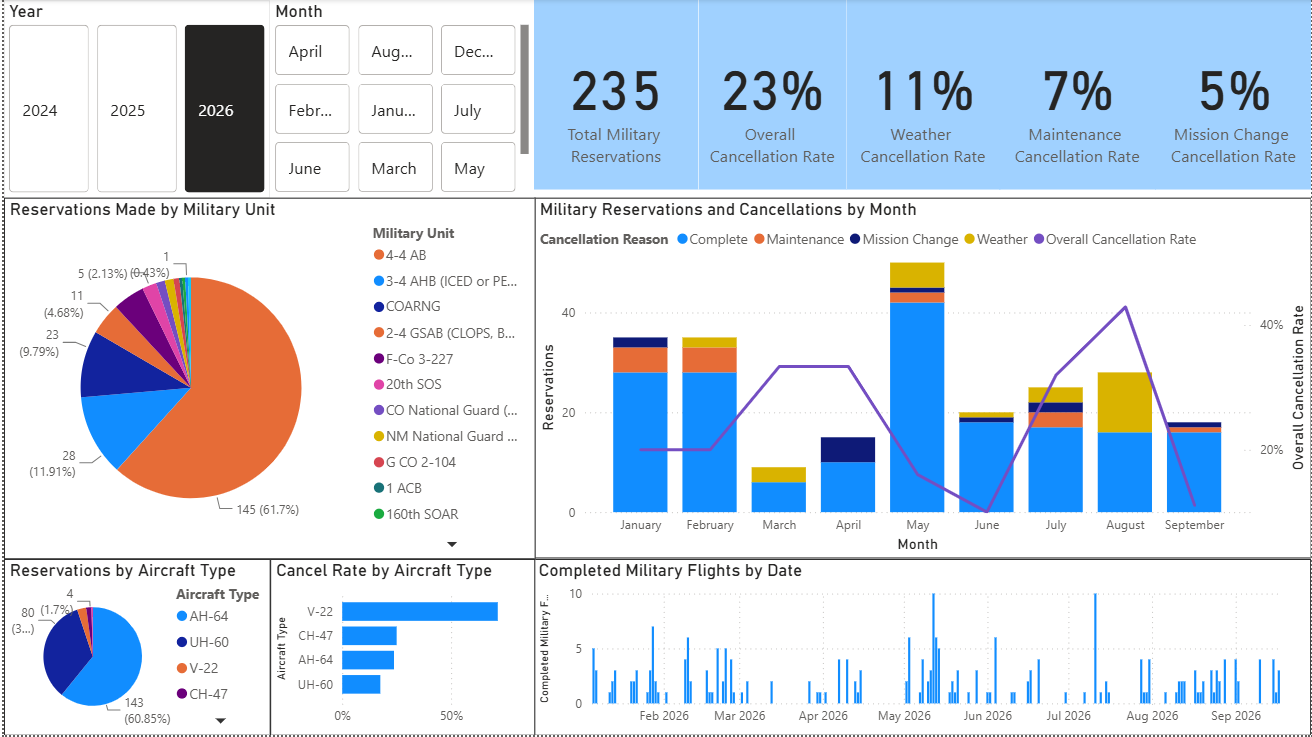
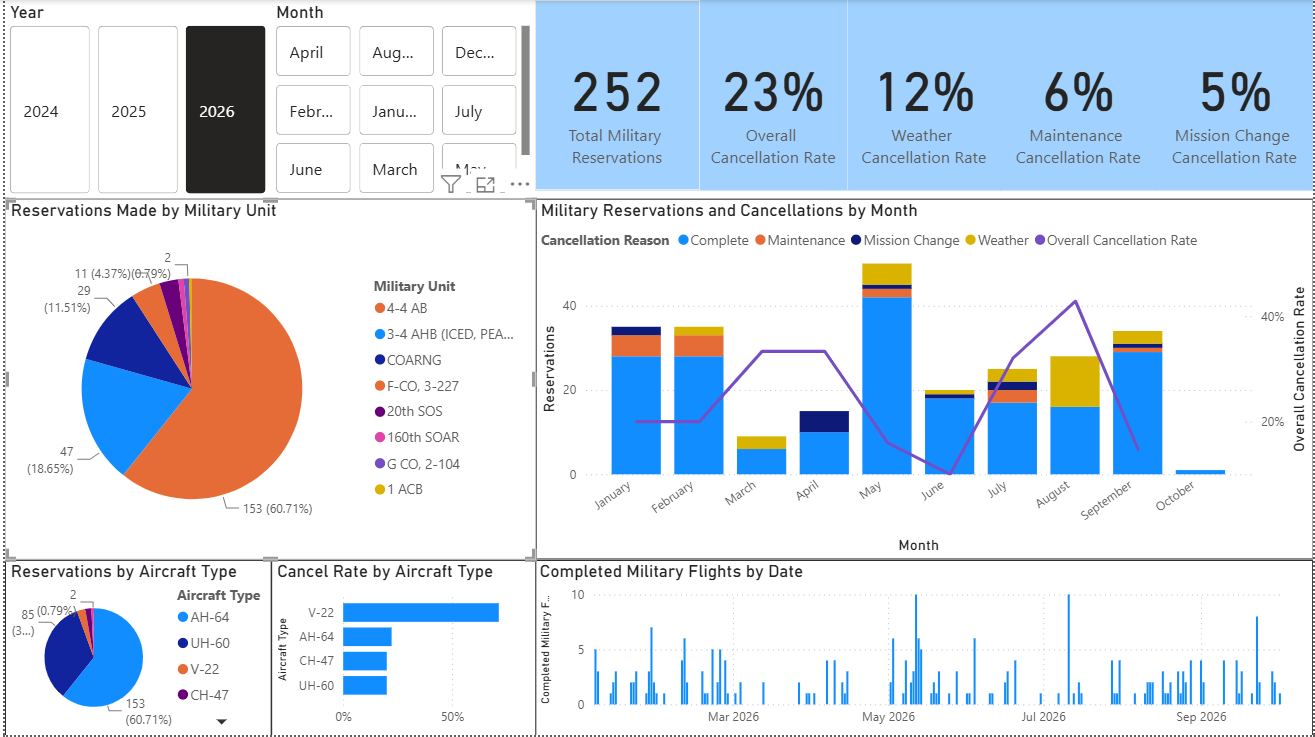
Update operations section for October meeting
- Replace 2026 civilian, military reservation, and total operations
  charts with current year-to-date exports
- Civilian jets & helos now 412 YTD operations; total operations 2,674
- Remove operations section intro paragraph
- Unbold the 35-40% reduction figure
- Trim key takeaway to drop the aircraft-type aside and the
  "preferred destination" claim

diff --git a/index.html b/index.html
@@ -1634,10 +1634,8 @@
         <!-- SECTION 3: Airport Operations Data -->
         <div class="content-section" id="operations">
             <h2>Airport Operations Data</h2>
-            <p>Perry Stokes Airport has seen significant growth in high-value civilian jet and helicopter operations, while overall traffic patterns reflect military deployment cycles and flight school adjustments.</p>
-            
             <h3>Civilian Jet & Helicopter Operations: A Growth Story</h3>
-            <p style="margin-bottom: 20px;">Civilian jet and helicopter operations have grown dramatically—<strong>from just 80 operations in all of 2024 to 289 in 2025</strong>, a 261% increase. Through September, <strong>2026 has already recorded 366 operations</strong>, surpassing all of 2025. With the airport rental car fleet and hangar share program now in place, we expect this trajectory to continue.</p>
+            <p style="margin-bottom: 20px;">Civilian jet and helicopter operations have grown dramatically—<strong>from just 80 operations in all of 2024 to 289 in 2025</strong>, a 261% increase. Through September, <strong>2026 has already recorded 412 operations</strong>, surpassing all of 2025. With the airport rental car fleet and hangar share program now in place, we expect this trajectory to continue.</p>
             
             <div style="display: grid; grid-template-columns: 1fr 1fr; gap: 30px; margin: 20px 0;">
                 <div style="text-align: center;">
@@ -1656,7 +1654,7 @@
             <div style="text-align: center; max-width: calc(50% - 15px); margin: 0 auto 20px;">
                 <h4 style="color: #1a5276; margin-bottom: 10px;">2026 Civilian Jets & Helos (Year to Date)</h4>
                 <img src="images/2026_civilian_jets_helos.png" alt="2026 Civilian Jet and Helicopter Operations, year to date" class="expandable-img" onclick="openModal(this.src)" style="width: 100%; border: 1px solid #ddd; border-radius: 8px; box-shadow: 0 2px 8px rgba(0,0,0,0.1);">
-                <p style="margin-top: 8px; font-size: 0.9em; color: #666;"><strong>366 recorded operations</strong> (150 landings, 146 takeoffs)</p>
+                <p style="margin-top: 8px; font-size: 0.9em; color: #666;"><strong>412 recorded operations</strong> (171 landings, 169 takeoffs, 11 touch-and-go)</p>
                 <p class="click-hint">Click to enlarge</p>
             </div>
             
@@ -1682,7 +1680,7 @@
             </div>
             
             <h3>Total Airport Operations</h3>
-            <p style="margin-bottom: 20px;">The loss of the CAE flight school in Pueblo resulted in a <strong>35-40% reduction in total operations</strong> throughout 2026. While this may seem troubling, it is important to remember that CAE traffic was non-revenue generating: high operation counts, but extremely low fuel volumes and minimal local economic impact. <strong>Our revenue-generating customers have continued to grow</strong> with improvements to services and facilities at the airport.</p>
+            <p style="margin-bottom: 20px;">The loss of the CAE flight school in Pueblo resulted in a 35-40% reduction in total operations throughout 2026. While this may seem troubling, it is important to remember that CAE traffic was non-revenue generating: high operation counts, but extremely low fuel volumes and minimal local economic impact. <strong>Our revenue-generating customers have continued to grow</strong> with improvements to services and facilities at the airport.</p>
             
             <div style="display: grid; grid-template-columns: 1fr 1fr; gap: 30px; margin: 20px 0;">
                 <div style="text-align: center;">
@@ -1701,12 +1699,12 @@
             <div style="text-align: center; max-width: calc(50% - 15px); margin: 0 auto 20px;">
                 <h4 style="color: #1a5276; margin-bottom: 10px;">2026 Total Operations (Year to Date)</h4>
                 <img src="images/2026_total_operations.png" alt="2026 Total Airport Operations, year to date" class="expandable-img" onclick="openModal(this.src)" style="width: 100%; border: 1px solid #ddd; border-radius: 8px; box-shadow: 0 2px 8px rgba(0,0,0,0.1);">
-                <p style="margin-top: 8px; font-size: 0.9em; color: #666;"><strong>2,506 operations</strong> (995 landings, 947 takeoffs, 451 touch-and-go/go-arounds)</p>
+                <p style="margin-top: 8px; font-size: 0.9em; color: #666;"><strong>2,674 operations</strong> (1,072 landings, 1,024 takeoffs, 463 touch-and-go/go-arounds)</p>
                 <p class="click-hint">Click to enlarge</p>
             </div>
             
             <div style="background: #eaf2f8; padding: 15px 20px; border-radius: 8px; margin-top: 20px;">
-                <strong>Key Takeaway:</strong> While total operations fluctuate with military cycles and flight school activity, the operations that matter most for local economic impact—business jets and civilian helicopters—are growing rapidly. With improved amenities and services, Perry Stokes Airport is positioning itself as the preferred destination for business aviation in Southern Colorado.
+                <strong>Key Takeaway:</strong> While total operations fluctuate with military cycles and flight school activity, the operations that matter most for local economic impact are growing rapidly.
             </div>
             
             <div class="report-actions">
